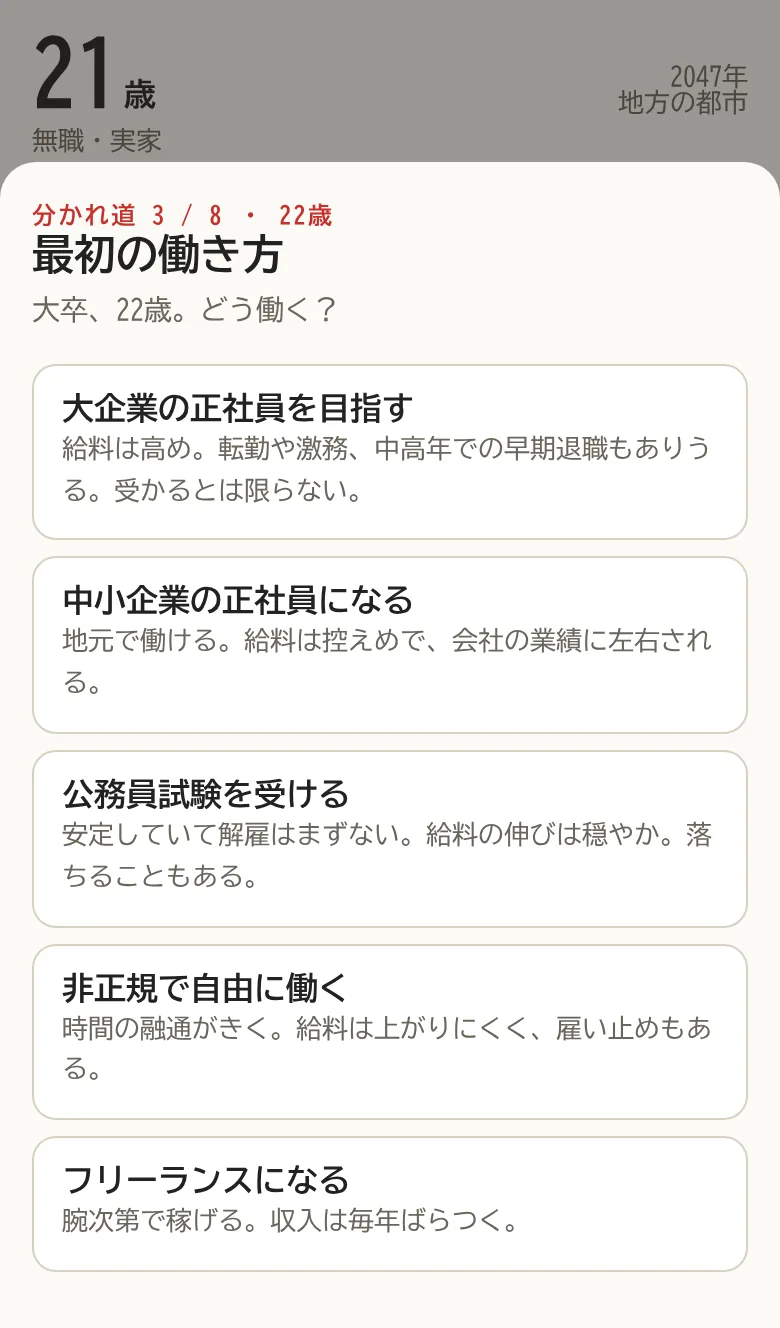
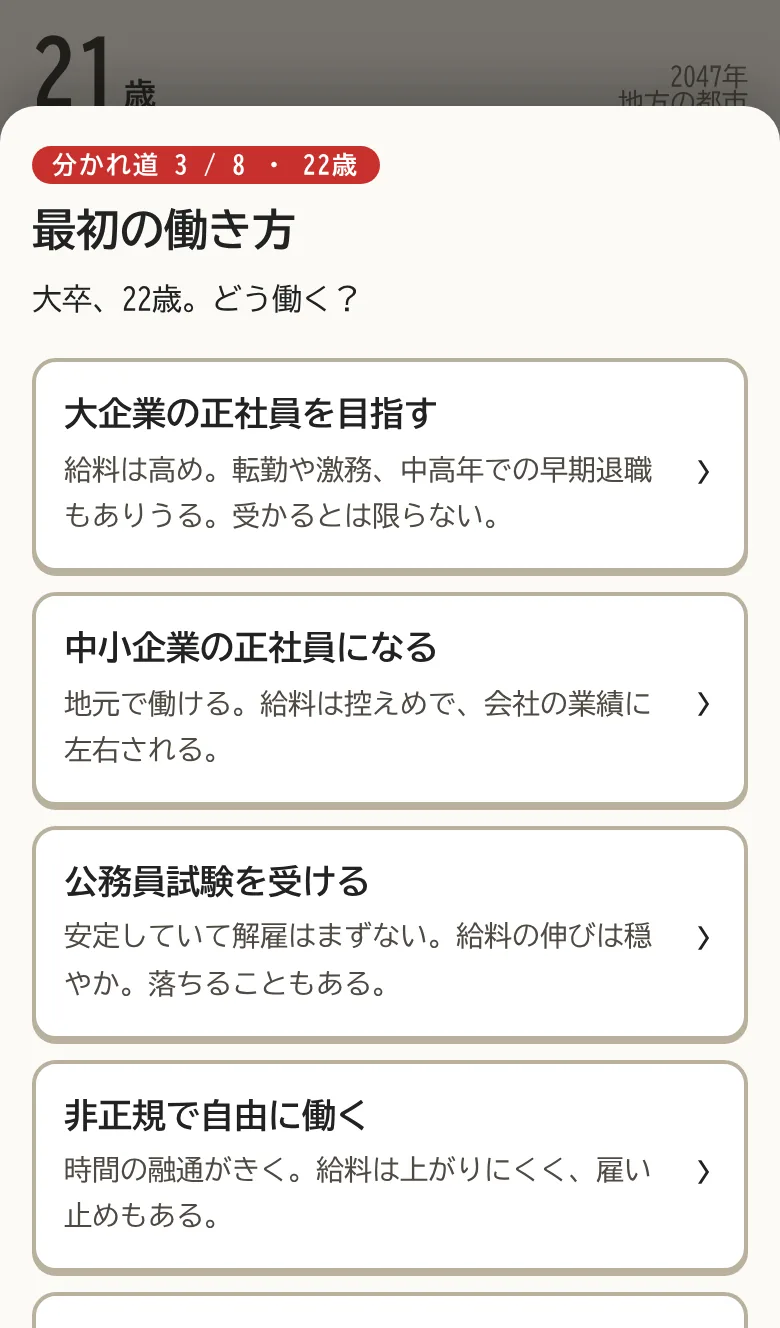
紹介ページの3点を直した
- 生涯で稼ぐお金の8か国を金額の大きい順に並べ、差の見出しを一番多い国と一番少ない国にした（アメリカとナイジェリア・約95倍）
- 作り直しの手順（lpregen.sh）でも、毎回金額の順に並べ替え、差の見出しを合わせる
- 3枚のレシートは、並び全体が画面に入ったら3枚そろって数え始める（横に隠れた札が0円のまま残らない）
- ゲーム画面の画像（選択・プレイ中）を、新しい選択画面の見た目で撮り直した

Claude-Session: https://claude.ai/code/session_01P8h7G7H9Hz4F9jwmunJGJH

diff --git a/public/lp/index.html b/public/lp/index.html
@@ -400,7 +400,7 @@
         </h1>
         <p class="lead">生まれる国も、家庭も、生まれるまで分かりません。公的な統計データでつくった一生ぶんのお金の流れを、約20分で体験するゲームです。</p>
 
-        <div class="earn" id="earn" role="img" aria-label="生涯で稼ぐお金の中央値。アメリカ3.88億円、ドイツ2.82億円、日本1.66億円、中国5,913万円、ブラジル4,726万円、インド953万円、ナイジェリア407万円、エチオピア413万円">
+        <div class="earn" id="earn" role="img" aria-label="生涯で稼ぐお金の中央値。アメリカ3.88億円、ドイツ2.82億円、日本1.66億円、中国5,913万円、ブラジル4,726万円、インド953万円、エチオピア413万円、ナイジェリア407万円">
           <div class="hd"><span>生涯で稼ぐお金（本人）</span><span>中央値・円換算</span></div>
           <div class="er" data-v="38844"><span class="cn">アメリカ</span><span class="dots"></span><b>0円</b><span class="bar"><i></i></span></div>
           <div class="er" data-v="28200"><span class="cn">ドイツ</span><span class="dots"></span><b>0円</b><span class="bar"><i></i></span></div>
@@ -408,9 +408,9 @@
           <div class="er" data-v="5913"><span class="cn">中国</span><span class="dots"></span><b>0円</b><span class="bar"><i></i></span></div>
           <div class="er" data-v="4726"><span class="cn">ブラジル</span><span class="dots"></span><b>0円</b><span class="bar"><i></i></span></div>
           <div class="er" data-v="953"><span class="cn">インド</span><span class="dots"></span><b>0円</b><span class="bar"><i></i></span></div>
-          <div class="er" data-v="407"><span class="cn">ナイジェリア</span><span class="dots"></span><b>0円</b><span class="bar"><i></i></span></div>
           <div class="er" data-v="413"><span class="cn">エチオピア</span><span class="dots"></span><b>0円</b><span class="bar"><i></i></span></div>
-          <div class="total"><span>アメリカとエチオピアの差</span><b id="gap">約95倍</b></div>
+          <div class="er" data-v="407"><span class="cn">ナイジェリア</span><span class="dots"></span><b>0円</b><span class="bar"><i></i></span></div>
+          <div class="total"><span>アメリカとナイジェリアの差</span><b id="gap">約95倍</b></div>
         </div>
         <p class="cap">ゲームの中で各国400人の人生を動かしたときの、本人が生涯で稼いだお金の中央値です。現地通貨を今の為替で円に直しています。物価が違うので、暮らしの豊かさをそのまま比べたものではありません。</p>
 
@@ -696,8 +696,8 @@
               requestAnimationFrame(step);
             }, still ? 0 : 2300 + i * 170);
           });
-        const r0 = Number(rows[0].dataset.v), rl = Number(rows[rows.length - 1].dataset.v);
-        document.getElementById("gap").textContent = `約${Math.round(r0 / rl)}倍`;
+        const vs = rows.map((r) => Number(r.dataset.v));
+        document.getElementById("gap").textContent = `約${Math.round(Math.max(...vs) / Math.min(...vs))}倍`;
         start();
       })();
 
@@ -829,8 +829,7 @@
           box.append(a);
         });
         const cards = [...box.children];
-        onSeen(cards, (a) => {
-          const k = cards.indexOf(a);
+        onSeen([box], () => cards.forEach((a, k) => {
           setTimeout(() => {
             on(a);
             const b = a.querySelector(".earned b");
@@ -844,7 +843,7 @@
             };
             requestAnimationFrame(step);
           }, k * 260);
-        }, { threshold: 0.2 });
+        }), { threshold: 0.2 });
       });
 
       // ───── 最後のはんこ ─────
